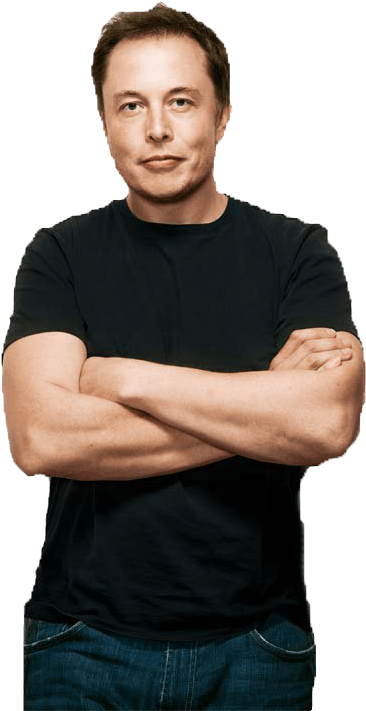
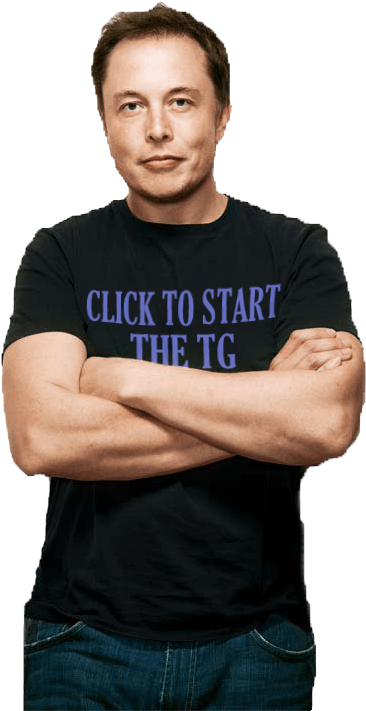
elon task

Changed region(s): [[0.2404, 0.4023, 0.7814, 0.526]]

diff --git a/sketch.js b/sketch.js
@@ -5,6 +5,7 @@ var analyzer;
 var volume = 0;
 var resize;
 var myElon;
+var tgwid, tghei;
 
 function preload() {
   mySong = loadSound("./assets/TG1_bumper.mp3");
@@ -28,15 +29,28 @@ function windowResized() {
 }
 
 function draw() {
-  var bgwid = windowWidth
-  var bghei = windowWidth / 1.5
-  var tgwid = windowWidth / 2 * resize
-  var tghei = windowWidth * 0.368 / 2 * resize
+  background('black')
+  var def = windowWidth * windowHeight / 1000
+  var bgwid = def;
+  var bghei = def / 1.5;
+  tgwid = def / 2 * resize;
+  tghei = def * 0.368 / 2 * resize;
+  var elonwid = def * 0.514 /2;
+  var elonhei = def /2;
+  var poselon = windowHeight*2
+
+
+
   image(myBG, windowWidth / 2, windowHeight / 2, bgwid, bghei)
-  image(myLogo, windowWidth / 2, windowHeight / 2, tgwid, tghei)
-  // image(myElon, windowWidth / 2, windowHeight / 2, 
-  console.log(analyzer.getLevel())
+  if (mySong.isPlaying() == false) {
+    poselon = windowHeight * 5 / 6
+  } else if (mySong.isPlaying() == true) {
+    image(myLogo, windowWidth / 2, windowHeight / 2, tgwid, tghei)
+  }
+  image(myElon, windowWidth / 2, poselon, elonwid , elonhei);
+  console.log(poselon)
   volume = analyzer.getLevel();
+
 
   resize = map(volume, 0, 0.5, 1, 1.5)
 }
@@ -44,6 +58,6 @@ function draw() {
 function mouseClicked() {
   if (mySong.isPlaying() == false) { //returns the Boolean value (true or false)
     mySong.play();
-
   }
+
 }
